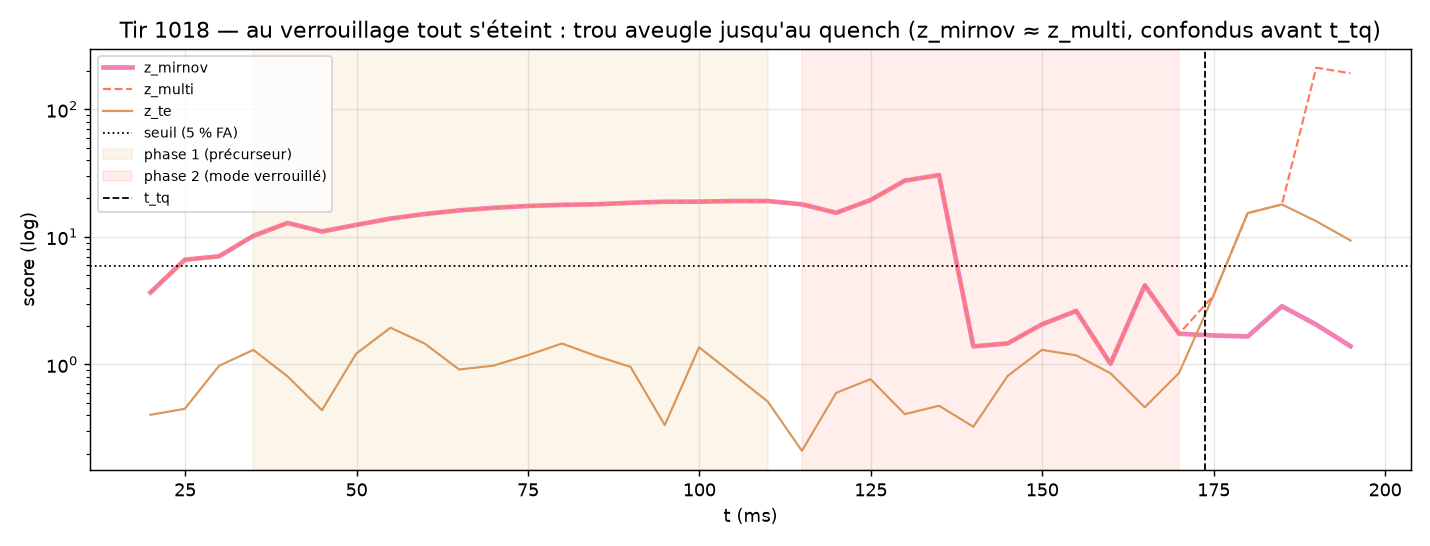
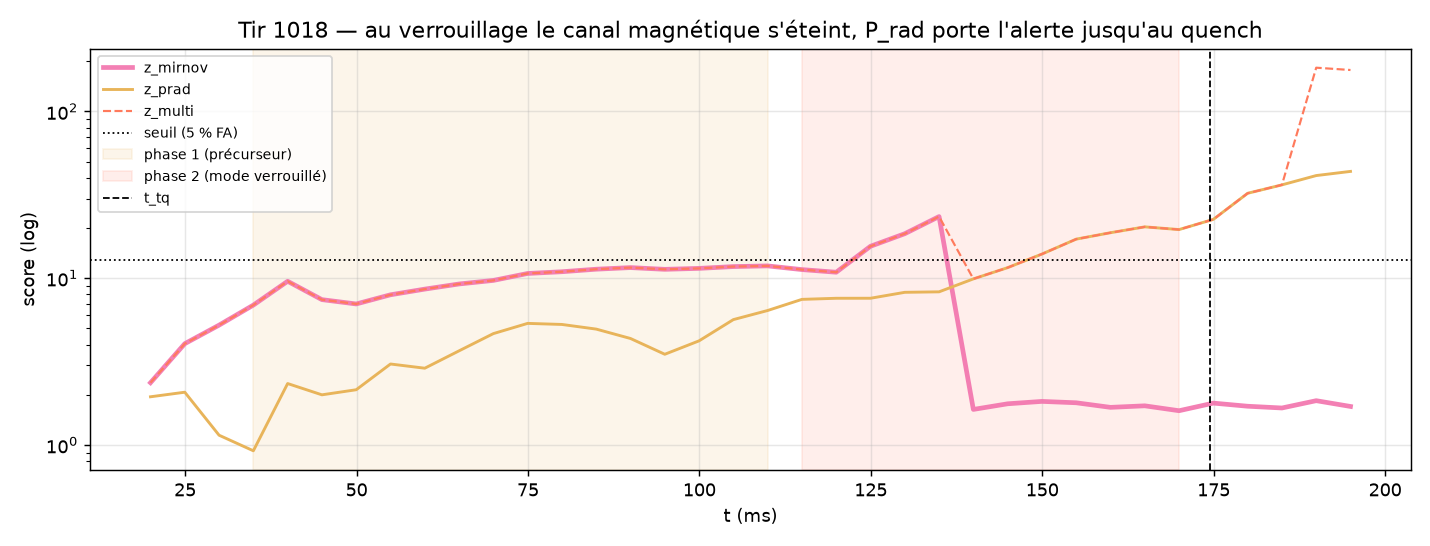
Intègre P_rad et densité à la baseline ML et actualise les résultats
features.py extrait moyenne et pente de prad/ne par fenêtre ; deux
détecteurs mono-canal z_prad et z_ne s'ajoutent, le multi-canal et la
logistique absorbent les nouvelles features. Résultats sur le dataset
régénéré (ELM + dents jitterées + nouveaux canaux) : les ELM gonflent
la calibration du mirnov (seuil 5.9 -> 12.9, un tir manqué, alerte
médiane 114 -> 88 ms) ; en phase verrouillée stricte le magnétique ne
tient plus que 20 % des fenêtres mais z_prad en tient 100 % — l'îlot
verrouillé continue de rayonner — et le multi-canal reste armé jusqu'au
quench sans mémoire d'alarme. RESULTS.md et figures régénérés.

diff --git a/ml/evaluate.py b/ml/evaluate.py
@@ -24,12 +24,13 @@ import matplotlib.pyplot as plt
 import numpy as np
 import pandas as pd
 
-DETECTEURS = ["z_mirnov", "z_te", "z_ip", "z_multi", "logistique"]
+DETECTEURS = ["z_mirnov", "z_te", "z_ip", "z_prad", "z_ne", "z_multi", "logistique"]
 K_CONSECUTIFS = 3
 FAR_CIBLE = 0.05
 
 COULEURS = {
     "z_mirnov": "#F272AC", "z_te": "#D9975B", "z_ip": "#5C89B8",
+    "z_prad": "#E8B45A", "z_ne": "#8FBC8F",
     "z_multi": "#FF7A5C", "logistique": "#93A4B4",
 }
 
@@ -175,8 +176,8 @@ def main() -> None:
     g = g[g["t_ms"] <= t_tq_ex + 25]  # après le TQ, détecter ne compte plus
     fig, ax = plt.subplots(figsize=(11, 4.2))
     ax.plot(g["t_ms"], g["z_mirnov"], label="z_mirnov", color=COULEURS["z_mirnov"], lw=2.6, alpha=0.9)
+    ax.plot(g["t_ms"], g["z_prad"], label="z_prad", color=COULEURS["z_prad"], lw=1.6)
     ax.plot(g["t_ms"], g["z_multi"], label="z_multi", color=COULEURS["z_multi"], lw=1.2, ls="--")
-    ax.plot(g["t_ms"], g["z_te"], label="z_te", color=COULEURS["z_te"], lw=1.2)
     ax.axhline(points_fonctionnement["z_multi"]["seuil"], color="k", ls=":", lw=1,
                label="seuil (5 % FA)")
     bandes = {1: "#E8B45A", 2: "#FF7A5C"}
@@ -189,8 +190,8 @@ def main() -> None:
     ax.set_yscale("log")
     ax.set_xlabel("t (ms)")
     ax.set_ylabel("score (log)")
-    ax.set_title(f"Tir {seed_ex} — au verrouillage tout s'éteint : trou aveugle jusqu'au quench "
-                 "(z_mirnov ≈ z_multi, confondus avant t_tq)")
+    ax.set_title(f"Tir {seed_ex} — au verrouillage le canal magnétique s'éteint, "
+                 "P_rad porte l'alerte jusqu'au quench")
     ax.legend(fontsize=8)
     ax.grid(alpha=0.3)
     fig.tight_layout()
@@ -251,32 +252,34 @@ def main() -> None:
         lignes.append(f"| {det} | {s['ph1']:.0%} | {s['ph2']:.0%} | {s['ph2s']:.0%} |")
     lignes += [
         "",
-        f"Trois enseignements (z_multi médian : {z_multi_median['ph1']:.0f} en phase 1, "
-        f"{z_multi_median['ph2']:.0f} en phase 2, {z_multi_median['ph2s']:.0f} en phase 2 stricte) :",
+        f"Trois enseignements (feature dominante en phase 2 : {top_dom} ; "
+        f"trou de phase 2 : {duree_ph2_tirs.median():.0f} ms en médiane, "
+        f"max {duree_ph2_tirs.max():.0f} ms, juste avant le quench) :",
         "",
-        "1. **Le 100 % de détection ne doit rien à la phase verrouillée** : l'alarme",
-        "   se déclenche en phase 1, portée par le RMS Mirnov du mode tournant, et",
-        "   le temps d'alerte est déjà acquis quand le mode se verrouille.",
-        "2. **En phase 2 stricte, tous les détecteurs fenêtrés deviennent quasi",
-        f"   aveugles** ({stats_phase['z_multi']['ph2s']:.0%} de dépassements pour le multi-canal,",
-        f"   z médian ≈ {z_multi_median['ph2s']:.0f}) : le Mirnov retombe au niveau du bruit, la",
-        "   lente dérive de T_e est noyée dans le clapotis des dents de scie qui a",
-        "   calibré la MAD, et I_p ne bouge qu'au quench (`z_te` et `z_ip` ne",
-        "   détectent d'ailleurs RIEN à 5 % de fausses alarmes, phase 1 comprise).",
-        "   Le multi-canal n'est pas sauvé par te/ip — il retombe avec le mirnov.",
-        f"   Ce trou aveugle dure {duree_ph2_tirs.median():.0f} ms en médiane "
-        f"(max {duree_ph2_tirs.max():.0f} ms), juste avant le quench.",
-        "3. **Le seul signal propre à la phase 2 est le transitoire d'extinction",
-        f"   lui-même** : sur ces fenêtres, la feature dominante est {top_dom} —",
-        "   la disparition brutale du signal précurseur est elle-même un précurseur.",
+        "1. **L'alerte s'acquiert en phase 1, portée par le RMS Mirnov du mode",
+        f"   tournant** ({stats_phase['z_mirnov']['ph1']:.0%} des fenêtres au-dessus du seuil) —",
+        "   mais les bouffées ELM des tirs sains gonflent la calibration du canal",
+        "   magnétique et lui coûtent de la marge : son seuil monte, son alerte",
+        "   recule, et il peut manquer les tirs à précurseur court.",
+        "2. **Au verrouillage, le canal magnétique s'éteint** : en phase 2 stricte",
+        f"   `z_mirnov` ne tient plus que {stats_phase['z_mirnov']['ph2s']:.0%} des fenêtres — c'est le trou",
+        "   aveugle historique de la détection purement magnétique. Ni T_e (dérive",
+        "   lente noyée dans le clapotis des dents de scie qui a calibré la MAD),",
+        "   ni I_p (plat jusqu'au quench), ni la densité ne prennent le relais",
+        "   (`z_te`, `z_ip`, `z_ne` : ~0 % partout à 5 % de fausses alarmes).",
+        "3. **C'est P_rad qui comble le trou** : l'îlot verrouillé continue de",
+        f"   grossir et de rayonner, `z_prad` tient {stats_phase['z_prad']['ph2s']:.0%} des fenêtres de",
+        f"   phase 2 stricte, et le multi-canal ({stats_phase['z_multi']['ph2s']:.0%}) comme la logistique",
+        f"   ({stats_phase['logistique']['ph2s']:.0%}) restent armés du verrouillage jusqu'au quench.",
         "",
-        "Conséquence pour la détection d'anomalies : un détecteur par fenêtre sans",
-        "mémoire perdrait l'alarme pendant les dizaines de millisecondes qui",
-        "précèdent immédiatement le quench. Il faut soit une alarme à verrouillage",
-        "(latching, utilisé ici), soit des features à mémoire longue capables",
-        "d'encoder « le RMS s'est effondré depuis un niveau élevé » — c'est",
-        "exactement ce que la dérivée `d_rms_mirnov` capture au moment de la",
-        "transition, et ce qu'un modèle séquentiel (RNN/TCN) apprendrait de lui-même.",
+        "C'est la réponse à la question mono vs multi : un détecteur mono-canal",
+        "magnétique sans mémoire perd l'alarme pendant les dizaines de",
+        "millisecondes qui précèdent immédiatement le quench (il ne survivrait que",
+        "par verrouillage d'alarme, ou par une feature à mémoire du type « le RMS",
+        "s'est effondré depuis un niveau élevé », que `d_rms_mirnov` capture au",
+        "transitoire). Le multi-canal, lui, n'a pas besoin de mémoire : la",
+        "complémentarité physique des canaux (mirnov pour le mode tournant, P_rad",
+        "pour l'îlot verrouillé) assure une couverture continue.",
         "",
         f"![mode verrouillé]({png_verrou.name})",
         "",

diff --git a/ml/features.py b/ml/features.py
@@ -43,6 +43,8 @@ def features_tir(df: pd.DataFrame, win: int, hop: int) -> pd.DataFrame:
     mir = df["mirnov"].to_numpy(float)
     te = df["te"].to_numpy(float)
     ip = df["ip"].to_numpy(float)
+    prad = df["prad"].to_numpy(float)
+    ne = df["ne"].to_numpy(float)
     t = df["t_ms"].to_numpy(float)
     phase = df["phase"].to_numpy(int)
     if len(mir) < win + hop:
@@ -51,6 +53,8 @@ def features_tir(df: pd.DataFrame, win: int, hop: int) -> pd.DataFrame:
     w_mir = fenetres(mir, win, hop)
     w_te = fenetres(te, win, hop)
     w_ip = fenetres(ip, win, hop)
+    w_pr = fenetres(prad, win, hop)
+    w_ne = fenetres(ne, win, hop)
     fin = np.arange(win - 1, len(mir), hop)[: len(w_mir)]  # index de fin de fenêtre
 
     rms_mirnov = np.sqrt((w_mir**2).mean(axis=1))
@@ -72,6 +76,10 @@ def features_tir(df: pd.DataFrame, win: int, hop: int) -> pd.DataFrame:
             "freq_khz": freq_khz,
             "te_slope": te_slope,
             "ip_dev": ip_dev,
+            "prad_mean": w_pr.mean(axis=1),
+            "prad_slope": pente(w_pr, SAMPLE_MS),
+            "ne_mean": w_ne.mean(axis=1),
+            "ne_slope": pente(w_ne, SAMPLE_MS),
             "phase": phase[fin],
         }
     )

diff --git a/ml/baseline.py b/ml/baseline.py
@@ -20,6 +20,7 @@ from sklearn.preprocessing import StandardScaler
 
 FEATURES = [
     "rms_mirnov", "freq_khz", "te_slope", "ip_dev",
+    "prad_mean", "prad_slope", "ne_mean", "ne_slope",
     "d_rms_mirnov", "d_freq_khz", "d_te_slope", "d_ip_dev",
 ]
 # Jeux de features par détecteur z-score : mono-canal vs multi-canal.
@@ -27,6 +28,8 @@ CANAUX = {
     "z_mirnov": ["rms_mirnov", "freq_khz", "d_rms_mirnov", "d_freq_khz"],
     "z_te": ["te_slope", "d_te_slope"],
     "z_ip": ["ip_dev", "d_ip_dev"],
+    "z_prad": ["prad_mean", "prad_slope"],
+    "z_ne": ["ne_mean", "ne_slope"],
     "z_multi": FEATURES,
 }
 # Étiquetage des fenêtres pour le classifieur : précurseur = fenêtre finissant

diff --git a/ml/RESULTS.md b/ml/RESULTS.md
@@ -21,11 +21,13 @@ Dataset : `data/run01` — test : 30 tirs disruptifs, 30 tirs sains (split PAR T
 
 | Détecteur | Seuil | Fausses alarmes (test) | Détection | Alerte médiane (ms) | Alerte p10 (ms) |
 |---|---|---|---|---|---|
-| z_mirnov | 5.91 | 3% | 100% | 114.3 | 85.8 |
-| z_te | 2.47 | 0% | 0% | nan | nan |
-| z_ip | 5.08 | 10% | 0% | nan | nan |
-| z_multi | 5.9 | 7% | 100% | 114.3 | 85.8 |
-| logistique | 0.617 | 3% | 100% | 114.4 | 85.8 |
+| z_mirnov | 12.9 | 0% | 97% | 87.7 | 57.3 |
+| z_te | 2.46 | 0% | 0% | nan | nan |
+| z_ip | 6.16 | 0% | 0% | nan | nan |
+| z_prad | 4.25 | 3% | 100% | 67.7 | 56.2 |
+| z_ne | 5.74 | 0% | 0% | nan | nan |
+| z_multi | 12.9 | 0% | 100% | 87.0 | 39.4 |
+| logistique | 0.713 | 10% | 100% | 110.3 | 84.6 |
 
 ## Comportement pendant le mode verrouillé (phase = 2, Mirnov muette)
 
@@ -37,36 +39,40 @@ au-dessus du seuil de fonctionnement, par phase (tirs disruptifs du test) ;
 
 | Détecteur | Phase 1 (précurseur rotatif) | Phase 2 (toutes fenêtres) | Phase 2 stricte |
 |---|---|---|---|
-| z_mirnov | 100% | 57% | 23% |
-| z_te | 2% | 0% | 0% |
+| z_mirnov | 70% | 50% | 20% |
+| z_te | 1% | 2% | 2% |
 | z_ip | 0% | 0% | 0% |
-| z_multi | 100% | 57% | 23% |
-| logistique | 100% | 60% | 29% |
+| z_prad | 57% | 100% | 100% |
+| z_ne | 0% | 0% | 0% |
+| z_multi | 70% | 84% | 82% |
+| logistique | 99% | 100% | 99% |
 
-Trois enseignements (z_multi médian : 25 en phase 1, 19 en phase 2, 2 en phase 2 stricte) :
+Trois enseignements (feature dominante en phase 2 : `prad_mean` (45%) puis `d_rms_mirnov` (41%) ; trou de phase 2 : 45 ms en médiane, max 55 ms, juste avant le quench) :
 
-1. **Le 100 % de détection ne doit rien à la phase verrouillée** : l'alarme
-   se déclenche en phase 1, portée par le RMS Mirnov du mode tournant, et
-   le temps d'alerte est déjà acquis quand le mode se verrouille.
-2. **En phase 2 stricte, tous les détecteurs fenêtrés deviennent quasi
-   aveugles** (23% de dépassements pour le multi-canal,
-   z médian ≈ 2) : le Mirnov retombe au niveau du bruit, la
-   lente dérive de T_e est noyée dans le clapotis des dents de scie qui a
-   calibré la MAD, et I_p ne bouge qu'au quench (`z_te` et `z_ip` ne
-   détectent d'ailleurs RIEN à 5 % de fausses alarmes, phase 1 comprise).
-   Le multi-canal n'est pas sauvé par te/ip — il retombe avec le mirnov.
-   Ce trou aveugle dure 45 ms en médiane (max 55 ms), juste avant le quench.
-3. **Le seul signal propre à la phase 2 est le transitoire d'extinction
-   lui-même** : sur ces fenêtres, la feature dominante est `d_rms_mirnov` (51%) puis `rms_mirnov` (20%) —
-   la disparition brutale du signal précurseur est elle-même un précurseur.
+1. **L'alerte s'acquiert en phase 1, portée par le RMS Mirnov du mode
+   tournant** (70% des fenêtres au-dessus du seuil) —
+   mais les bouffées ELM des tirs sains gonflent la calibration du canal
+   magnétique et lui coûtent de la marge : son seuil monte, son alerte
+   recule, et il peut manquer les tirs à précurseur court.
+2. **Au verrouillage, le canal magnétique s'éteint** : en phase 2 stricte
+   `z_mirnov` ne tient plus que 20% des fenêtres — c'est le trou
+   aveugle historique de la détection purement magnétique. Ni T_e (dérive
+   lente noyée dans le clapotis des dents de scie qui a calibré la MAD),
+   ni I_p (plat jusqu'au quench), ni la densité ne prennent le relais
+   (`z_te`, `z_ip`, `z_ne` : ~0 % partout à 5 % de fausses alarmes).
+3. **C'est P_rad qui comble le trou** : l'îlot verrouillé continue de
+   grossir et de rayonner, `z_prad` tient 100% des fenêtres de
+   phase 2 stricte, et le multi-canal (82%) comme la logistique
+   (99%) restent armés du verrouillage jusqu'au quench.
 
-Conséquence pour la détection d'anomalies : un détecteur par fenêtre sans
-mémoire perdrait l'alarme pendant les dizaines de millisecondes qui
-précèdent immédiatement le quench. Il faut soit une alarme à verrouillage
-(latching, utilisé ici), soit des features à mémoire longue capables
-d'encoder « le RMS s'est effondré depuis un niveau élevé » — c'est
-exactement ce que la dérivée `d_rms_mirnov` capture au moment de la
-transition, et ce qu'un modèle séquentiel (RNN/TCN) apprendrait de lui-même.
+C'est la réponse à la question mono vs multi : un détecteur mono-canal
+magnétique sans mémoire perd l'alarme pendant les dizaines de
+millisecondes qui précèdent immédiatement le quench (il ne survivrait que
+par verrouillage d'alarme, ou par une feature à mémoire du type « le RMS
+s'est effondré depuis un niveau élevé », que `d_rms_mirnov` capture au
+transitoire). Le multi-canal, lui, n'a pas besoin de mémoire : la
+complémentarité physique des canaux (mirnov pour le mode tournant, P_rad
+pour l'îlot verrouillé) assure une couverture continue.
 
 ![mode verrouillé](mode_verrouille.png)
 